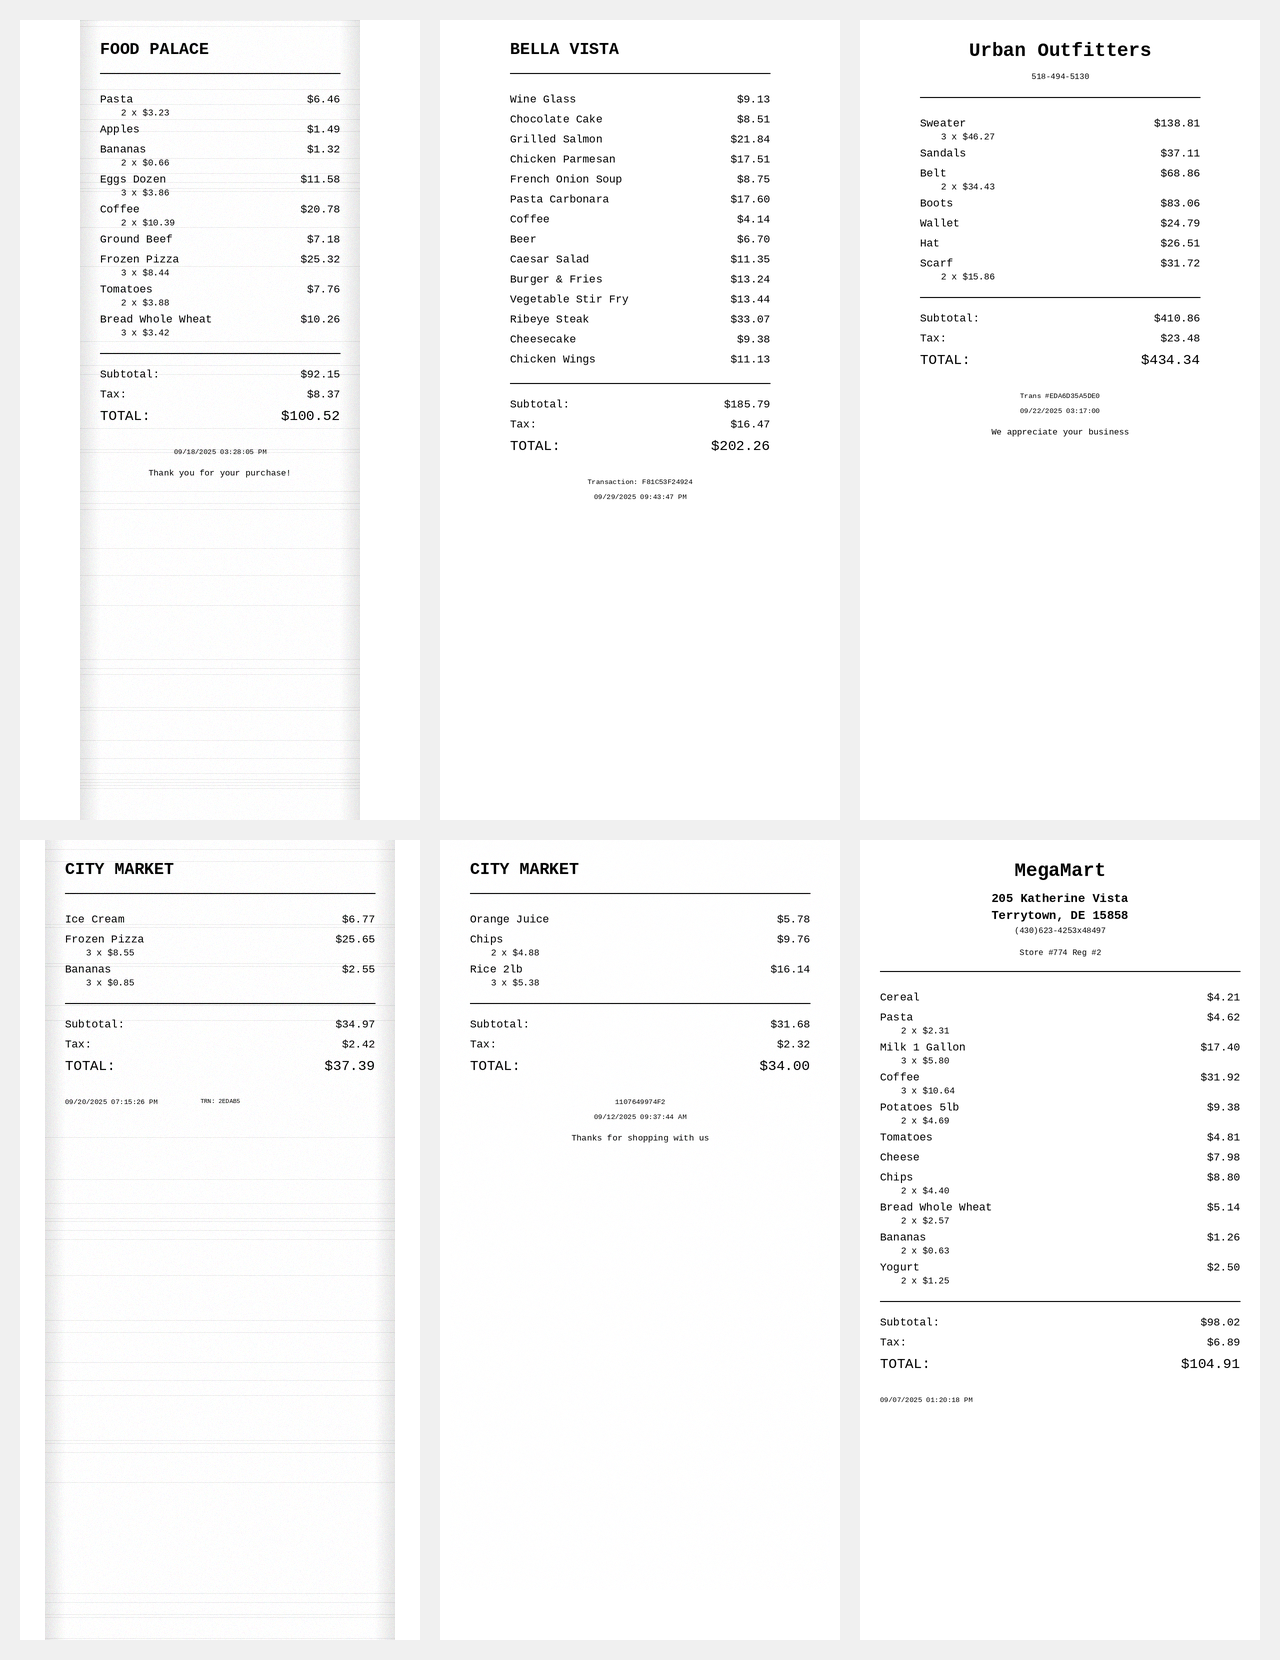
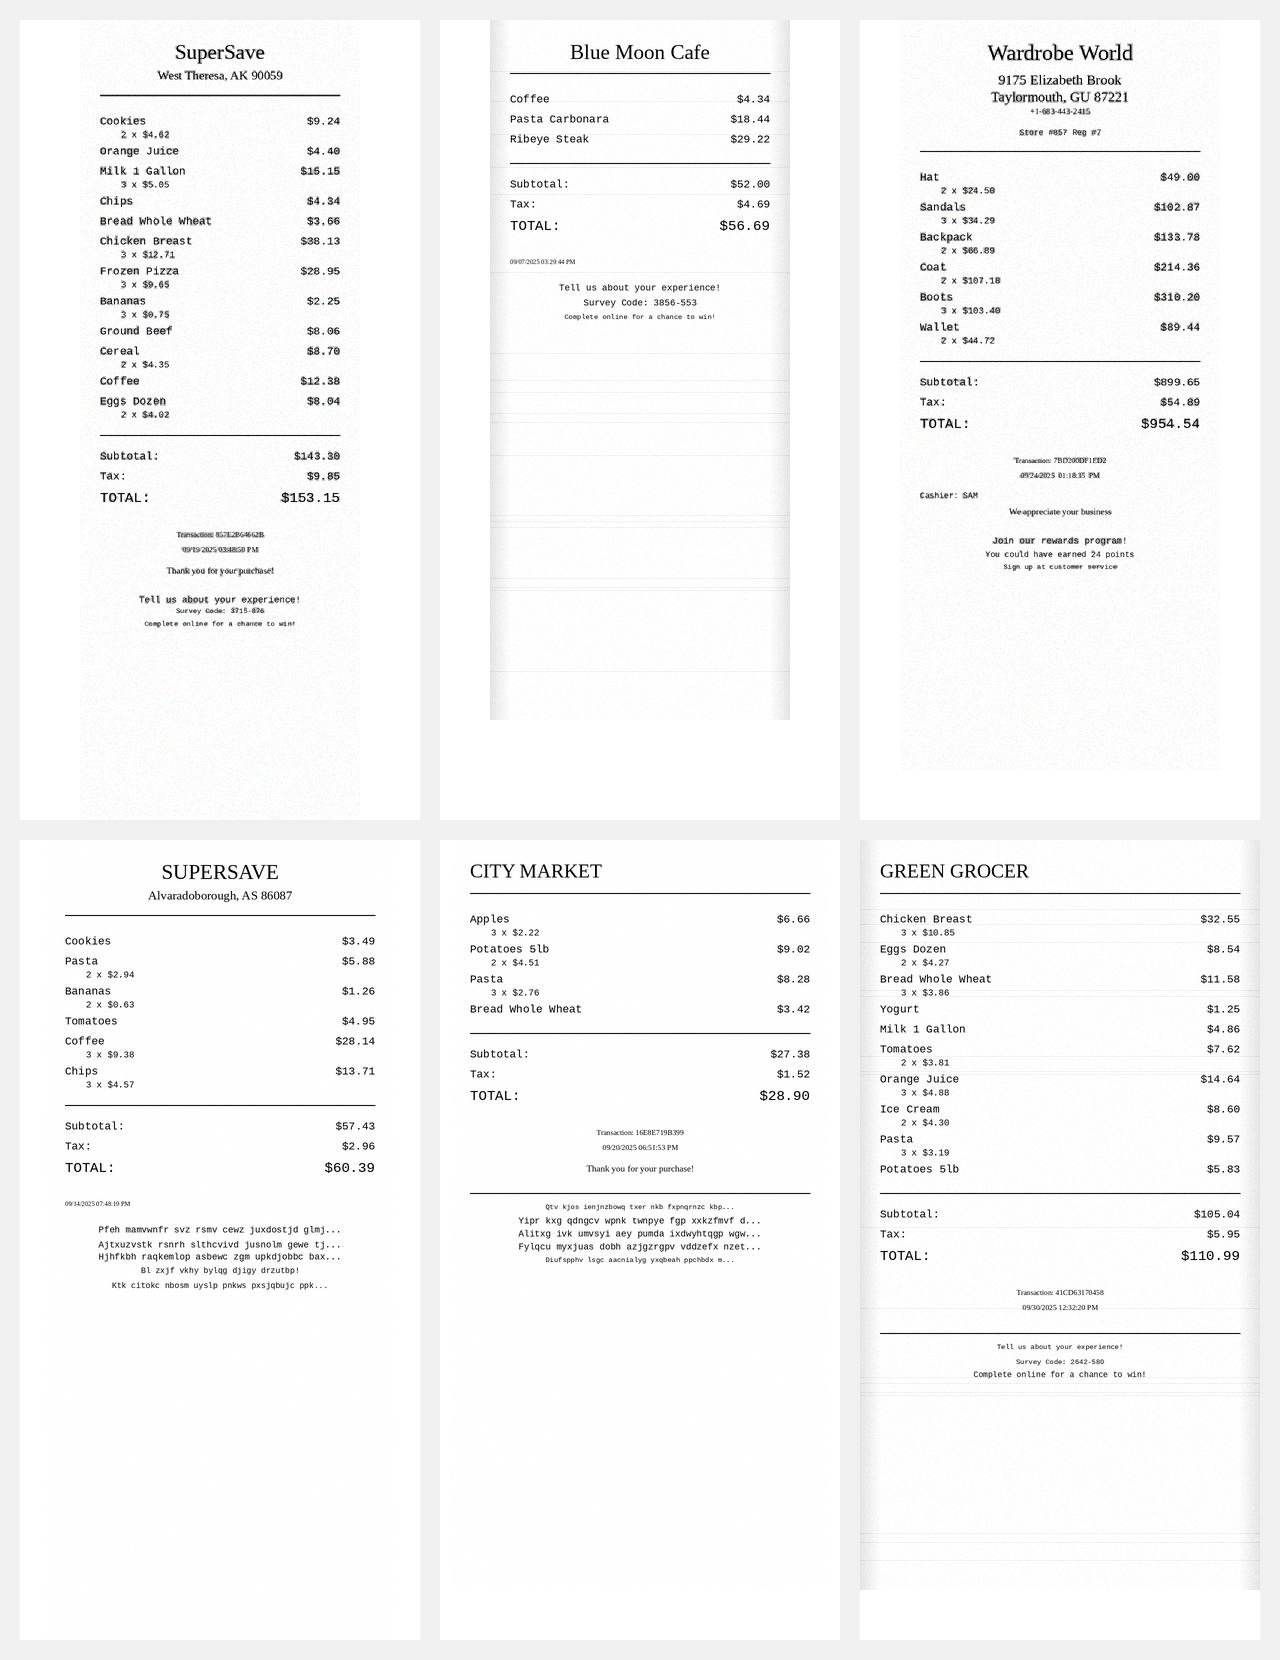
Added random footer generation.

diff --git a/receipt_generator/templates.py b/receipt_generator/templates.py
@@ -507,6 +507,95 @@ class ReceiptTemplate:
 
             return y_offset
 
+    def add_promotional_text(self, start_y: int) -> int:
+        """Add random promotional/marketing text at the bottom of receipts (50% chance)"""
+        import random
+        import string
+
+        # Add promotional text 50% of the time (increased from 30%)
+        if random.random() > 0.5:
+            return start_y
+
+        y_offset = start_y + 10  # Add some spacing first
+
+        # Different types of promotional content
+        promo_type = random.choice(["website", "survey", "rewards", "random_text", "coupon"])
+
+        if promo_type == "website":
+            # Website promotion
+            lines = [
+                "Visit us online at",
+                f"www.{''.join(random.choices(string.ascii_lowercase, k=8))}.com",
+                "for exclusive deals and offers!"
+            ]
+        elif promo_type == "survey":
+            # Survey invitation
+            lines = [
+                "Tell us about your experience!",
+                f"Survey Code: {random.randint(1000, 9999)}-{random.randint(100, 999)}",
+                "Complete online for a chance to win!"
+            ]
+        elif promo_type == "rewards":
+            # Rewards program
+            lines = [
+                "Join our rewards program!",
+                f"You could have earned {random.randint(10, 100)} points",
+                "Sign up at customer service"
+            ]
+        elif promo_type == "coupon":
+            # Coupon/discount
+            lines = [
+                f"Save {random.choice([10, 15, 20, 25])}% on your next visit!",
+                f"Coupon code: {''.join(random.choices(string.ascii_uppercase + string.digits, k=6))}",
+                f"Valid until {random.randint(1, 12)}/{random.randint(1, 28)}/{random.randint(24, 25)}"
+            ]
+        else:  # random_text
+            # Generate random paragraph-like text (gibberish for training)
+            # This helps the model learn to ignore non-essential text
+            num_lines = random.randint(3, 6)  # Increased from 2-4 to 3-6 lines
+            lines = []
+            for _ in range(num_lines):
+                # Generate random "words" of varying lengths
+                num_words = random.randint(6, 12)  # Increased from 4-10 words
+                words = []
+                for _ in range(num_words):
+                    word_length = random.randint(2, 10)  # Slightly longer words
+                    word = ''.join(random.choices(string.ascii_lowercase, k=word_length))
+                    words.append(word)
+                line = ' '.join(words)
+                # Capitalize first letter and maybe add punctuation
+                line = line[0].upper() + line[1:]
+                if random.random() < 0.4:  # Slightly more punctuation
+                    line += random.choice(['.', '!', '?', '...'])
+                lines.append(line)
+
+        # Add separator line sometimes (50% chance)
+        if random.random() < 0.5:
+            self.elements.append(ReceiptElement(
+                type=ElementType.LINE,
+                position=(self.padding, y_offset),
+                width=self.width - 2 * self.padding
+            ))
+            y_offset += 10
+
+        # Add the promotional text lines
+        for line in lines:
+            # Truncate if too long
+            if len(line) > 45:
+                line = line[:42] + "..."
+
+            self.elements.append(ReceiptElement(
+                type=ElementType.TEXT,
+                position=(self.width // 2, y_offset),
+                content=line,
+                font_size=random.choice([7, 8, 9]),
+                alignment=Alignment.CENTER,
+                element_type="promotional"
+            ))
+            y_offset += random.randint(12, 15)
+
+        return y_offset + 10
+
     def to_dict(self) -> Dict:
         return {
             'name': self.name,

diff --git a/receipt_generator/augmentation.py b/receipt_generator/augmentation.py
@@ -9,7 +9,7 @@ class AugmentationPipeline:
     def __init__(self,
                  rotation_range: Tuple[float, float] = (-3, 3),
                  noise_level: Tuple[float, float] = (0, 0.01),
-                 blur_range: Tuple[float, float] = (0, 0.5),  # Reduced from 1.5
+                 blur_range: Tuple[float, float] = (0, 0.25),  # Further reduced for subtler blur
                  brightness_range: Tuple[float, float] = (0.85, 1.15),
                  contrast_range: Tuple[float, float] = (0.9, 1.1),
                  perspective_distortion: float = 0.05,  # Reduced from 0.1

diff --git a/receipt_generator/renderer.py b/receipt_generator/renderer.py
@@ -188,11 +188,14 @@ class ReceiptBuilder:
             start_y=y + 10
         )
 
-        template.add_footer(
+        y = template.add_footer(
             transaction_id=transaction["transaction_id"],
             date_time=transaction["timestamp"],
             start_y=y + 10
         )
+
+        # Add promotional text at the bottom (30% chance)
+        template.add_promotional_text(start_y=y)
 
         # Render the receipt
         return self.renderer.render(template)

diff --git a/README.md b/README.md
@@ -72,6 +72,7 @@ The generator creates highly diverse receipts mimicking real-world variety:
 - **Header styles**: Minimal (name only), Compact (partial info), Standard, or Detailed (full address/phone)
 - **Footer styles**: Minimal, Compact, Spread, Standard, or Detailed with varying element placement
 - **Element presence**: Thank you messages (40-60% chance), transaction IDs (70% chance), addresses/phones randomly included
+- **Promotional text**: 50% of receipts include promotional paragraphs (surveys, coupons, websites, or random text) to train models to ignore non-essential information
 
 ### Visual Styles
 - **5 printer types**: Thermal, inkjet, dot matrix, modern POS, carbon copy
@@ -79,7 +80,7 @@ The generator creates highly diverse receipts mimicking real-world variety:
 - **4 font configurations**: Thermal classic (monospace), Modern POS (sans-serif), Boutique (mixed), Retro (dot matrix)
 
 ### Realistic Augmentations
-- Rotation (±3°), minimal blur (0-0.5), perspective distortion
+- Rotation (±3°), subtle blur (0-0.25 radius), perspective distortion
 - Noise, lighting variations, fold lines, occasional stains
 - Character spacing variations (condensed/normal/expanded)
 
